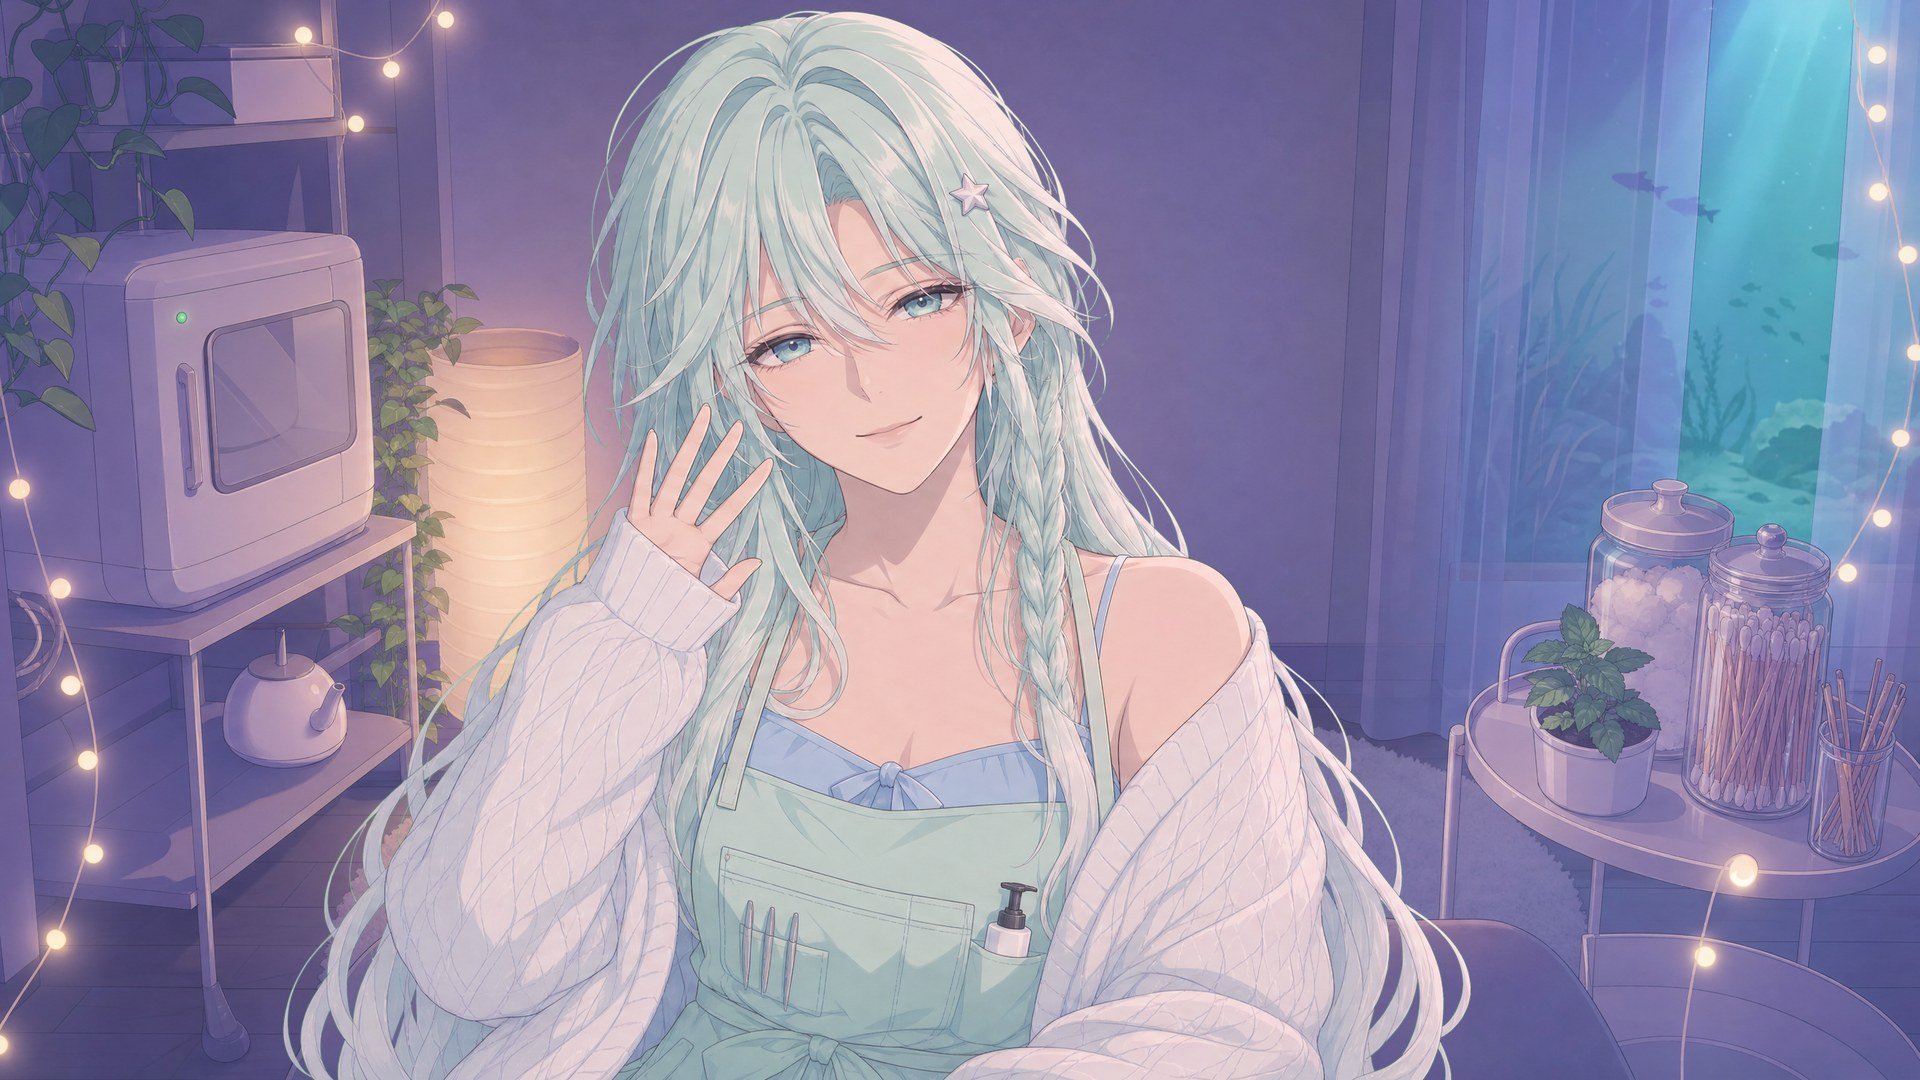
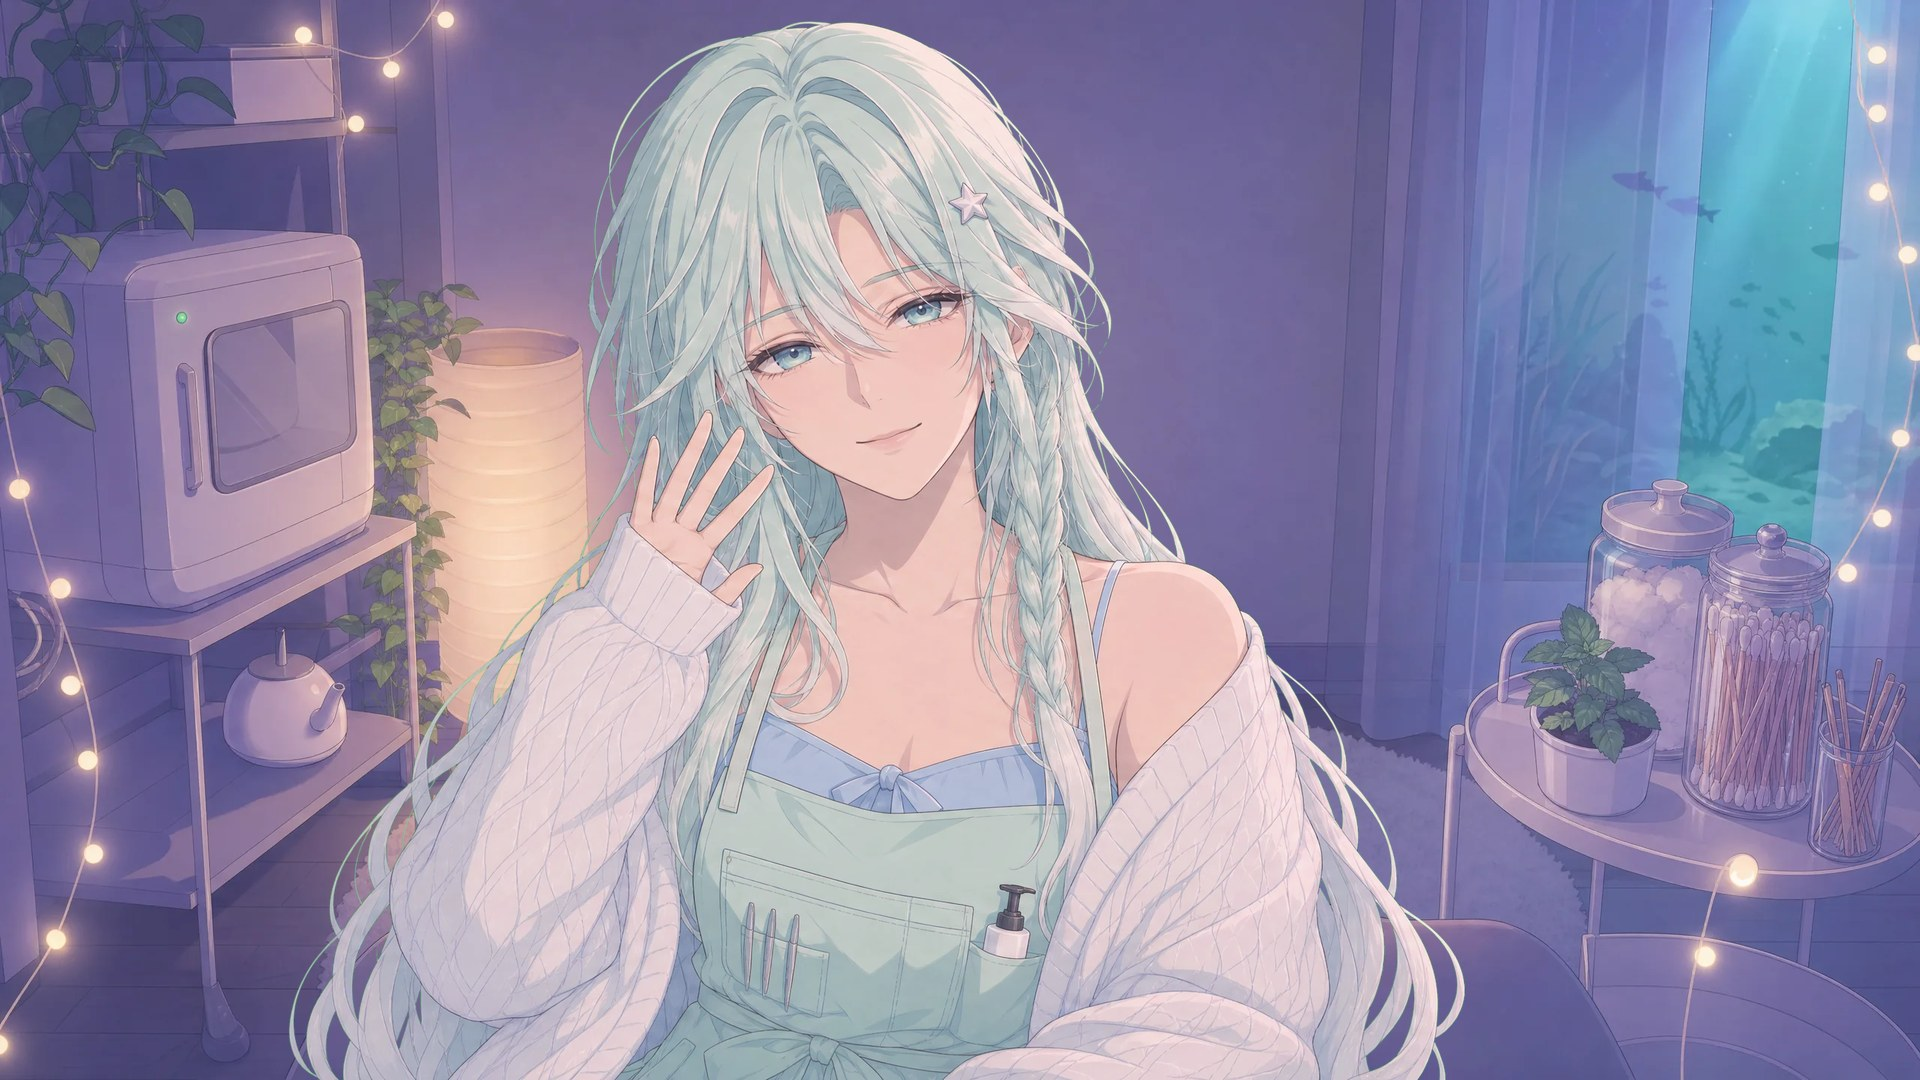
Demo14_MintStream: figures moved a little so complete edges sit ≥ 1 % inside / cut edges ≥ 1.5 % outside the frame (place_view.py, no rebuild)

Changed region(s): [[0.125, 0.0, 0.7812, 1.0], [0.2188, 0.9778, 0.25, 1.0]]

diff --git a/demos/for-men/Demo14_MintStream/media/layers.js b/demos/for-men/Demo14_MintStream/media/layers.js
@@ -17,7 +17,7 @@ window.MOHEAT_LAYERS = {
     "h": 1433,
     "x": 0.4568,
     "y": 1.0,
-    "height": 0.9951,
+    "height": 0.9851,
     "box": [
      371,
      7,
@@ -98,7 +98,7 @@ window.MOHEAT_LAYERS = {
     "h": 1290,
     "x": 0.5033,
     "y": 1.0,
-    "height": 0.9931,
+    "height": 0.9831,
     "box": [
      346,
      10,
@@ -422,7 +422,7 @@ window.MOHEAT_LAYERS = {
     "h": 1426,
     "x": 0.3863,
     "y": 1.0,
-    "height": 0.9903,
+    "height": 0.9843,
     "box": [
      334,
      14,
